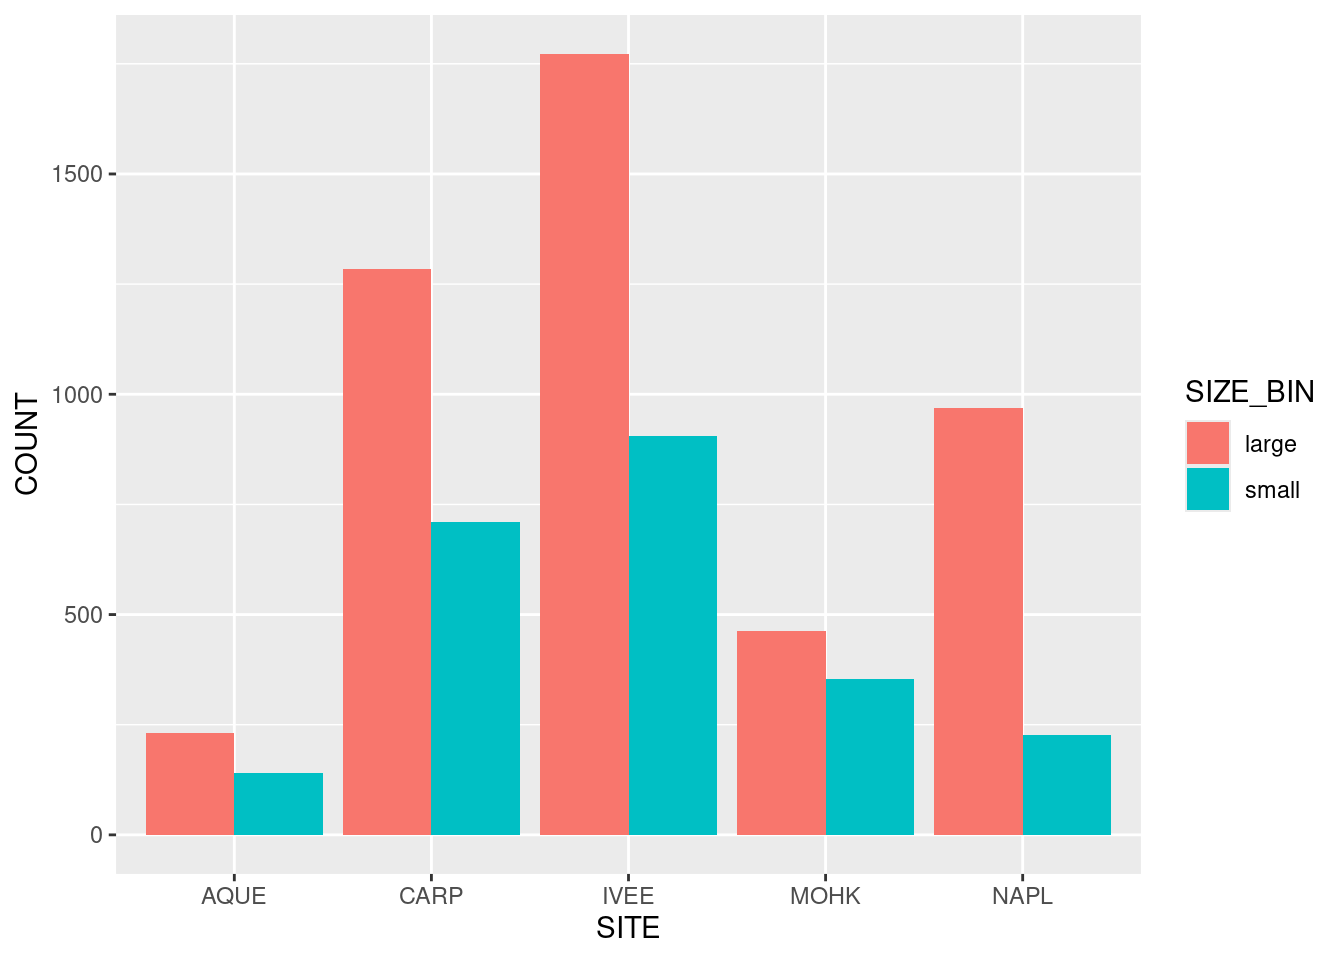
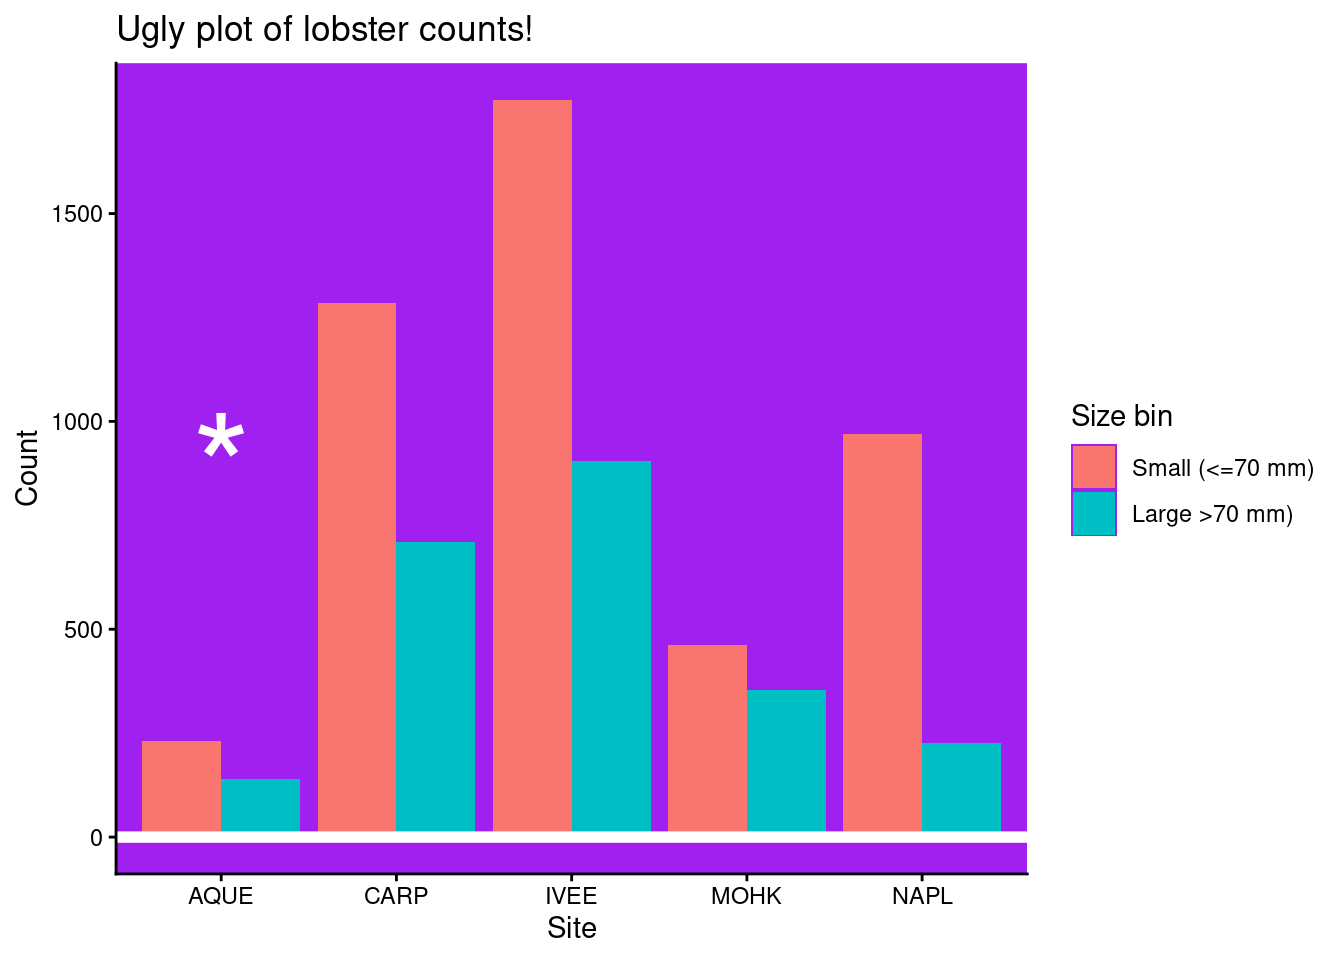
plot edits

diff --git a/analysis/owner-analysis.html b/analysis/owner-analysis.html
@@ -263,7 +263,37 @@ FALSE
 <span id="cb29-3"><a href="#cb29-3" aria-hidden="true" tabindex="-1"></a>                              <span class="fu">aes</span>(<span class="at">x =</span> SITE,</span>
 <span id="cb29-4"><a href="#cb29-4" aria-hidden="true" tabindex="-1"></a>                                  <span class="at">y =</span> COUNT,</span>
 <span id="cb29-5"><a href="#cb29-5" aria-hidden="true" tabindex="-1"></a>                                  <span class="at">fill =</span> SIZE_BIN)) <span class="sc">+</span></span>
-<span id="cb29-6"><a href="#cb29-6" aria-hidden="true" tabindex="-1"></a>   <span class="fu">geom_col</span>(<span class="at">position =</span> <span class="st">"dodge"</span>))</span></code><button title="Copy to Clipboard" class="code-copy-button"><i class="bi"></i></button></pre></div>
+<span id="cb29-6"><a href="#cb29-6" aria-hidden="true" tabindex="-1"></a>    <span class="fu">geom_col</span>(<span class="at">position =</span> <span class="st">"dodge"</span>) <span class="sc">+</span></span>
+<span id="cb29-7"><a href="#cb29-7" aria-hidden="true" tabindex="-1"></a>    <span class="co"># add line at y=0</span></span>
+<span id="cb29-8"><a href="#cb29-8" aria-hidden="true" tabindex="-1"></a>        <span class="fu">geom_hline</span>(<span class="at">yintercept =</span> <span class="dv">0</span>, </span>
+<span id="cb29-9"><a href="#cb29-9" aria-hidden="true" tabindex="-1"></a>               <span class="at">color =</span> <span class="st">"white"</span>,</span>
+<span id="cb29-10"><a href="#cb29-10" aria-hidden="true" tabindex="-1"></a>               <span class="at">size =</span> <span class="dv">2</span>) <span class="sc">+</span></span>
+<span id="cb29-11"><a href="#cb29-11" aria-hidden="true" tabindex="-1"></a>    <span class="co"># modify axes, legend titles</span></span>
+<span id="cb29-12"><a href="#cb29-12" aria-hidden="true" tabindex="-1"></a>    <span class="fu">labs</span>(<span class="at">x =</span> <span class="st">"Site"</span>,</span>
+<span id="cb29-13"><a href="#cb29-13" aria-hidden="true" tabindex="-1"></a>         <span class="at">y =</span> <span class="st">"Count"</span>,</span>
+<span id="cb29-14"><a href="#cb29-14" aria-hidden="true" tabindex="-1"></a>         <span class="at">fill =</span> <span class="st">"Size bin"</span>,</span>
+<span id="cb29-15"><a href="#cb29-15" aria-hidden="true" tabindex="-1"></a>         <span class="at">title =</span> <span class="st">"Ugly plot of lobster counts!"</span>) <span class="sc">+</span></span>
+<span id="cb29-16"><a href="#cb29-16" aria-hidden="true" tabindex="-1"></a>    <span class="co"># modify legend contents</span></span>
+<span id="cb29-17"><a href="#cb29-17" aria-hidden="true" tabindex="-1"></a>    <span class="fu">scale_fill_discrete</span>(<span class="at">labels =</span> <span class="fu">c</span>(<span class="st">"Small (&lt;=70 mm)"</span>, <span class="st">"Large &gt;70 mm)"</span>)) <span class="sc">+</span></span>
+<span id="cb29-18"><a href="#cb29-18" aria-hidden="true" tabindex="-1"></a>    <span class="fu">theme_classic</span>() <span class="sc">+</span></span>
+<span id="cb29-19"><a href="#cb29-19" aria-hidden="true" tabindex="-1"></a>    <span class="fu">theme</span>(</span>
+<span id="cb29-20"><a href="#cb29-20" aria-hidden="true" tabindex="-1"></a>      <span class="co"># make background purple</span></span>
+<span id="cb29-21"><a href="#cb29-21" aria-hidden="true" tabindex="-1"></a>      <span class="at">panel.background =</span> <span class="fu">element_rect</span>(<span class="at">fill =</span> <span class="st">"purple"</span>),</span>
+<span id="cb29-22"><a href="#cb29-22" aria-hidden="true" tabindex="-1"></a>    ) <span class="sc">+</span></span>
+<span id="cb29-23"><a href="#cb29-23" aria-hidden="true" tabindex="-1"></a>    <span class="co"># add random asterisk</span></span>
+<span id="cb29-24"><a href="#cb29-24" aria-hidden="true" tabindex="-1"></a>    <span class="fu">annotate</span>(</span>
+<span id="cb29-25"><a href="#cb29-25" aria-hidden="true" tabindex="-1"></a>      <span class="st">"text"</span>,</span>
+<span id="cb29-26"><a href="#cb29-26" aria-hidden="true" tabindex="-1"></a>      <span class="at">x =</span> <span class="st">"AQUE"</span>,  </span>
+<span id="cb29-27"><a href="#cb29-27" aria-hidden="true" tabindex="-1"></a>      <span class="at">y =</span> .<span class="dv">5</span> <span class="sc">*</span><span class="fu">max</span>(lobster_size_lrg<span class="sc">$</span>COUNT),      <span class="co"># vertical position</span></span>
+<span id="cb29-28"><a href="#cb29-28" aria-hidden="true" tabindex="-1"></a>      <span class="at">label =</span> <span class="st">"*"</span>,                              <span class="co"># add asterisk</span></span>
+<span id="cb29-29"><a href="#cb29-29" aria-hidden="true" tabindex="-1"></a>      <span class="at">color =</span> <span class="st">"white"</span>,                          <span class="co"># make asterisk white</span></span>
+<span id="cb29-30"><a href="#cb29-30" aria-hidden="true" tabindex="-1"></a>      <span class="at">size =</span> <span class="dv">20</span>                                 <span class="co"># enlarge asterisk</span></span>
+<span id="cb29-31"><a href="#cb29-31" aria-hidden="true" tabindex="-1"></a>    )</span>
+<span id="cb29-32"><a href="#cb29-32" aria-hidden="true" tabindex="-1"></a>  )</span></code><button title="Copy to Clipboard" class="code-copy-button"><i class="bi"></i></button></pre></div>
+<div class="cell-output cell-output-stderr">
+<pre><code>Warning: Using `size` aesthetic for lines was deprecated in ggplot2 3.4.0.
+ℹ Please use `linewidth` instead.</code></pre>
+</div>
 <div class="cell-output-display">
 <div>
 <figure class="figure">
@@ -271,6 +301,13 @@ FALSE
 </figure>
 </div>
 </div>
+<div class="sourceCode cell-code" id="cb31"><pre class="sourceCode r code-with-copy"><code class="sourceCode r"><span id="cb31-1"><a href="#cb31-1" aria-hidden="true" tabindex="-1"></a><span class="co"># save world's ugliest plot</span></span>
+<span id="cb31-2"><a href="#cb31-2" aria-hidden="true" tabindex="-1"></a><span class="fu">ggsave</span>(<span class="st">"../figs/wordsUgliestPlot.jpg"</span>,</span>
+<span id="cb31-3"><a href="#cb31-3" aria-hidden="true" tabindex="-1"></a>       plot_largeSmall)</span></code><button title="Copy to Clipboard" class="code-copy-button"><i class="bi"></i></button></pre></div>
+<div class="cell-output cell-output-stderr">
+<pre><code>Saving 7 x 5 in image</code></pre>
+</div>
+<div class="sourceCode cell-code" id="cb33"><pre class="sourceCode r code-with-copy"><code class="sourceCode r"><span id="cb33-1"><a href="#cb33-1" aria-hidden="true" tabindex="-1"></a><span class="co"># ggsave(here("figs/wordsUgliestPlot"))</span></span></code><button title="Copy to Clipboard" class="code-copy-button"><i class="bi"></i></button></pre></div>
 </div>
 </section>
 
